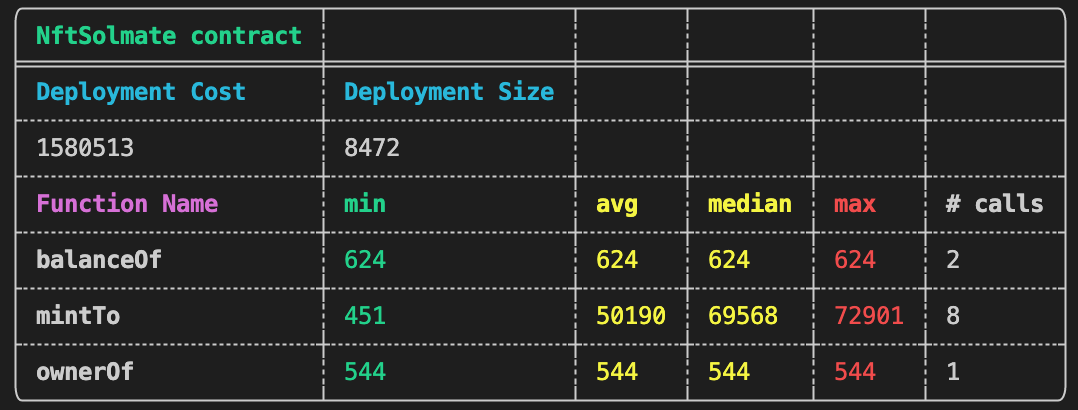
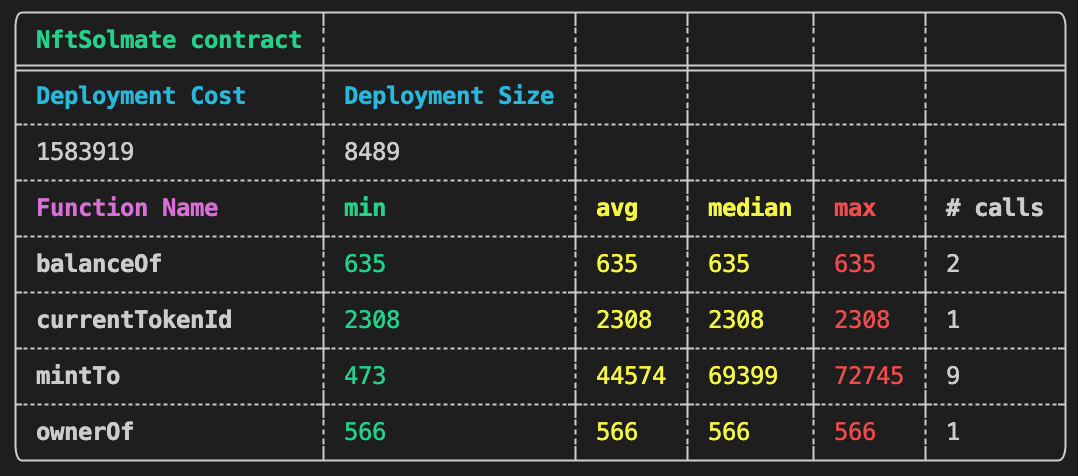
updating gas reports

diff --git a/src/tutorials/creating-an-NFT-with-solmate-and-forge.md b/src/tutorials/creating-an-NFT-with-solmate-and-forge.md
@@ -265,7 +265,7 @@ Foundry provides a comprehensive gas report about your contracts. For every func
 forge test --gas-report
 ```
 
-This comes in handy when looking at various gas optimizations within your contracts. Since we used Solmate gas optimised ERC721 library instead of OpenZeppelin's ERC721 library, let's have a look at the gas savings we made. You can find the NFT implementation using both libraries [here](https://github.com/FredCoen/nft-tutorial). Below are the resulting gas reports when running ```forge test --gas-report``` on that repository. As you can see our implementation using solmate library saves around 1000 gas on a successful mint (the max gas cost of the mintTo function calls).
+This comes in handy when looking at various gas optimizations within your contracts. Since we used Solmate gas optimised ERC721 library instead of OpenZeppelin's ERC721 library, let's have a look at the gas savings we made. You can find the NFT implementation using both libraries [here](https://github.com/FredCoen/nft-tutorial). Below are the resulting gas reports when running ```forge test --gas-report``` on that repository. As you can see our implementation using solmate library saves around 500 gas on a successful mint (the max gas cost of the mintTo function calls).
 
 ![Gas report solmate NFT](../images/nft-tutorial/gas-report-solmate-nft.png)
 
